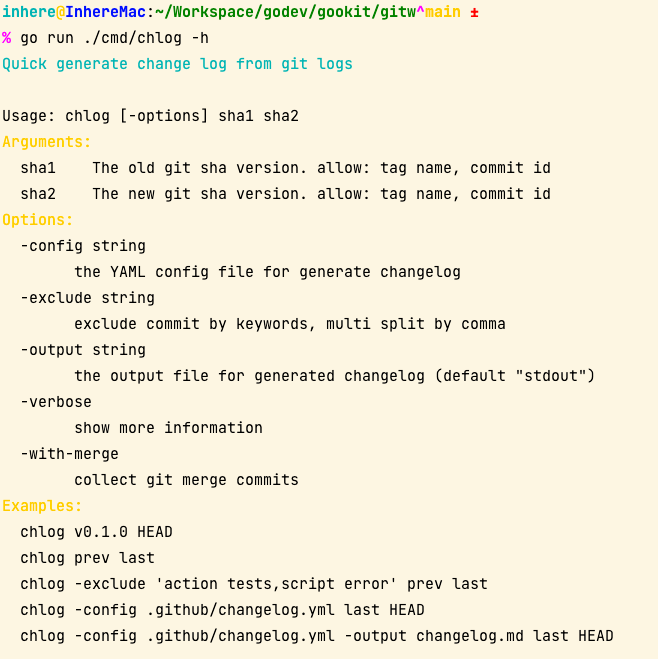
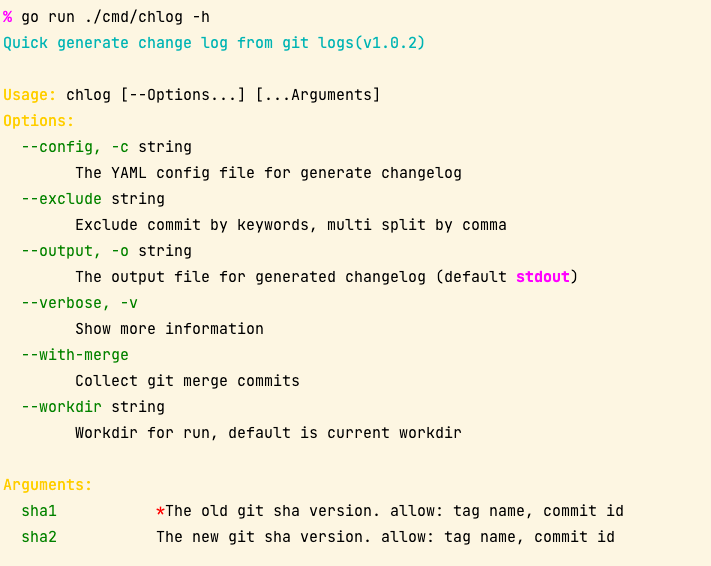
chore: update readme and update chlog preview image

diff --git a/README.zh-CN.md b/README.zh-CN.md
@@ -7,7 +7,7 @@
 [![Unit-Tests](https://github.com/gookit/gitw/workflows/Unit-Tests/badge.svg)](https://github.com/gookit/gitw/actions)
 [![Coverage Status](https://coveralls.io/repos/github/gookit/gitw/badge.svg?branch=master)](https://coveralls.io/github/gookit/gitw?branch=master)
 
-`gitw` - Git 命令包装器，生成 git 更改日志，获取 repo 信息和一些 git 工具。
+`gitw` - Git 命令包装器，生成 git 变更记录日志，获取 repo 信息和一些 git 命令工具。
 
 > Github https://github.com/gookit/gitw
 
@@ -60,9 +60,7 @@ func main() {
 
 ### 使用更多参数
 
-通过 `git log` 获取两个 sha 版本之间的提交日志
-
-Examples, get commit logs between two sha versions via `git log`
+示例，通过 `git log` 获取两个 sha 版本之间的提交日志
 
 ```go
 	logCmd := gitw.Log("--reverse").
@@ -113,9 +111,12 @@ Output:
 
 ![simple-repo-info](_examples/images/simple-repo-info.png)
 
-## Changelog
+## 生成变更日志
 
-可以通过 `gitwchlog` 包快速生成更新日志。
+可以通过 `gitw/chlog` 包快速生成更新日志。
+
+- 允许自定义生成配置 请看 [.github/changelog.yml](.github/changelog.yml)
+- 可以设置过滤、分组、输出样式等
 
 ### 安装
 
@@ -125,7 +126,7 @@ go install github.com/gookit/gitw/cmd/chlog@latest
 
 ### 使用
 
-Please run `chlog -h` to see help:
+运行 `chlog -h` 查看帮助:
 
 ![chlog-help](_examples/images/chlog-help.png)
 
@@ -133,7 +134,7 @@ Please run `chlog -h` to see help:
 
 ```shell
 chlog last head
-chlog -config .github/changelog.md last head
+chlog -c .github/changelog.yml last head
 ```
 
 **Outputs**:
@@ -173,8 +174,9 @@ chlog -config .github/changelog.md last head
 
       - name: Generate changelog
         run: |
-          curl https://github.com/gookit/gitw/releases/latest/download/chlog-linux-amd64 -o /usr/local/bin/chlog
-          chlog -config .github/changelog.yml -output changelog.md prev last 
+          curl https://github.com/gookit/gitw/releases/latest/download/chlog-linux-amd64 -L -o /usr/local/bin/chlog
+          chmod a+x /usr/local/bin/chlog
+          chlog -c .github/changelog.yml -o changelog.md prev last 
 
 ```
 

diff --git a/README.md b/README.md
@@ -113,6 +113,9 @@ Output:
 
 You can quickly generate changelog by `gitw/chlog` package.
 
+- Allows custom build configuration. see [.github/changelog.yml](.github/changelog.yml)
+- can set filtering, grouping, output styles, etc.
+
 ### Install
 
 ```shell
@@ -129,7 +132,7 @@ Please run `chlog -h` to see help:
 
 ```shell
 chlog last head
-chlog -config .github/changelog.md last head
+chlog -c .github/changelog.yml last head
 ```
 
 **Outputs**:
@@ -169,8 +172,9 @@ Can use `gitw/chlog` on GitHub actions, like:
 
       - name: Generate changelog
         run: |
-          curl https://github.com/gookit/gitw/releases/latest/download/chlog-linux-amd64 -o /usr/local/bin/chlog
-          chlog -config .github/changelog.yml -output changelog.md prev last 
+          curl https://github.com/gookit/gitw/releases/latest/download/chlog-linux-amd64 -L -o /usr/local/bin/chlog
+          chmod a+x /usr/local/bin/chlog
+          chlog -c .github/changelog.yml -o changelog.md prev last 
 
 ```
 
